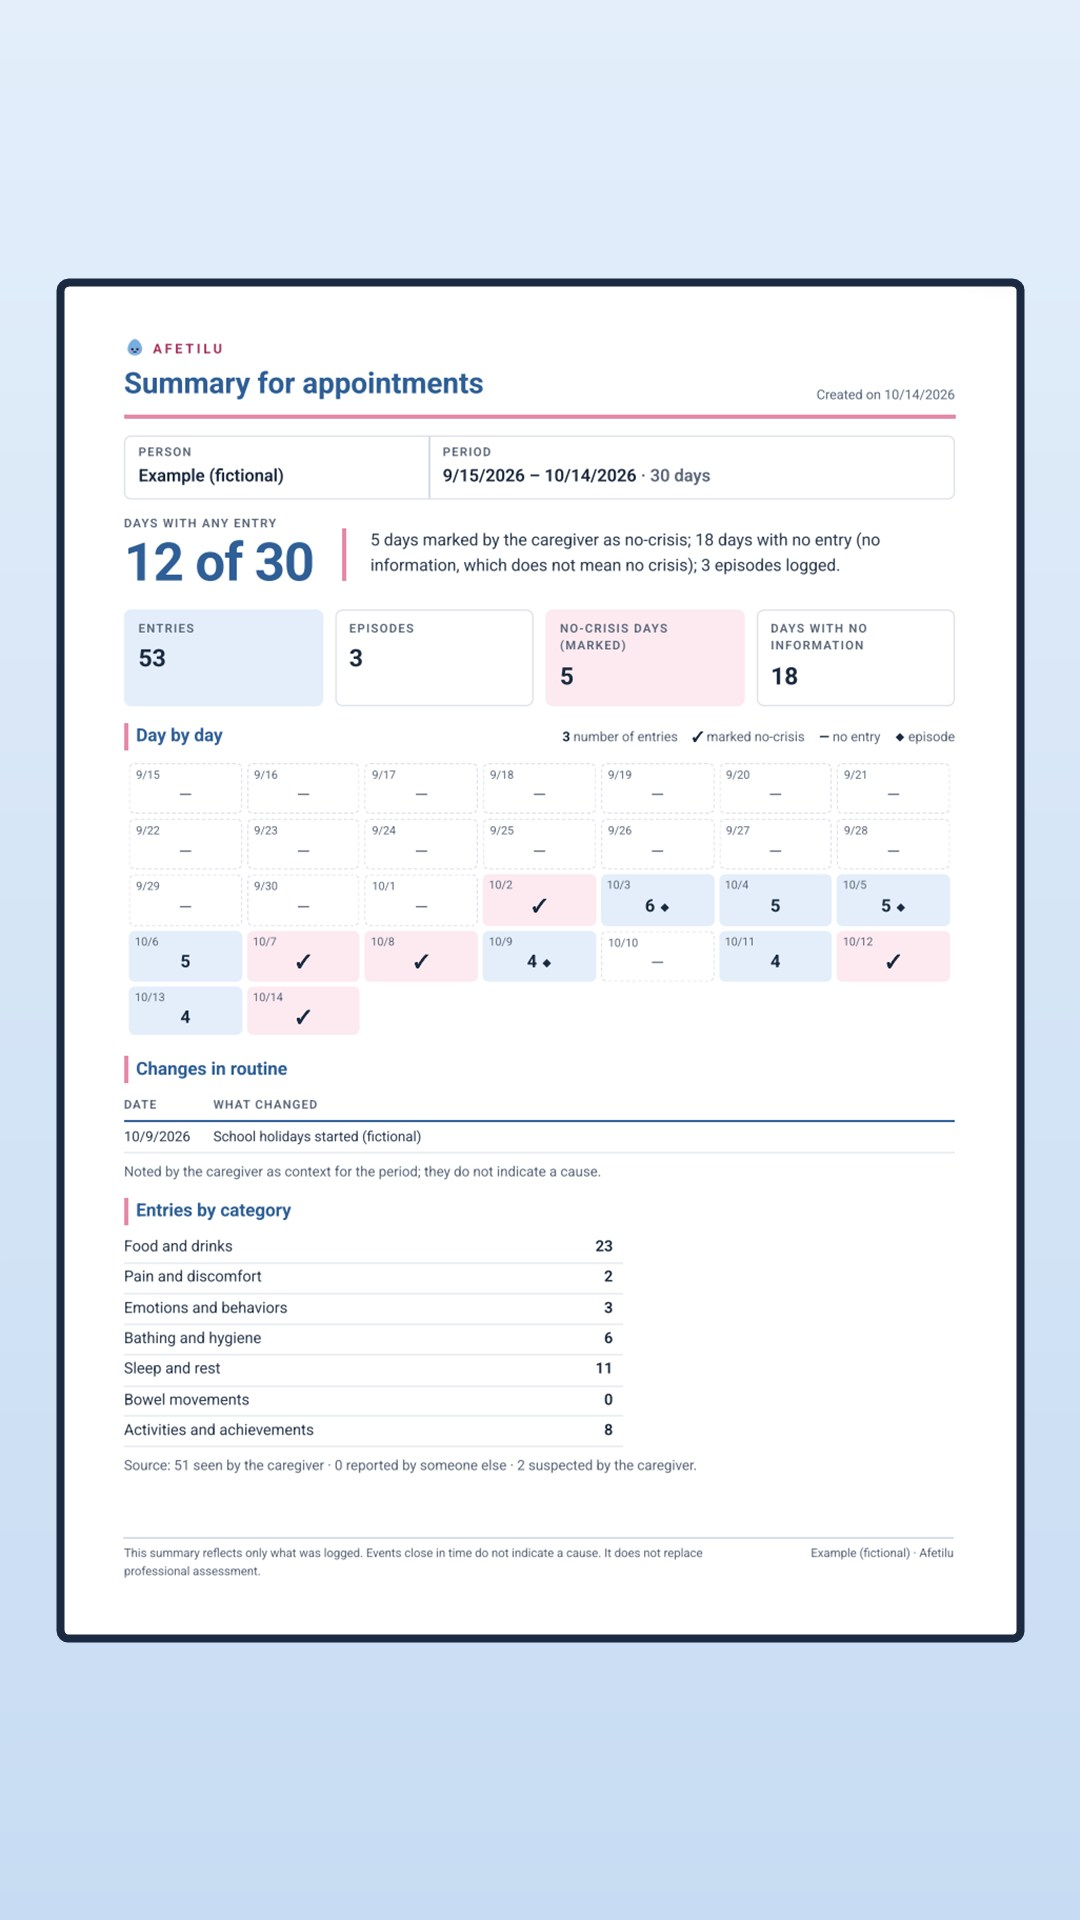
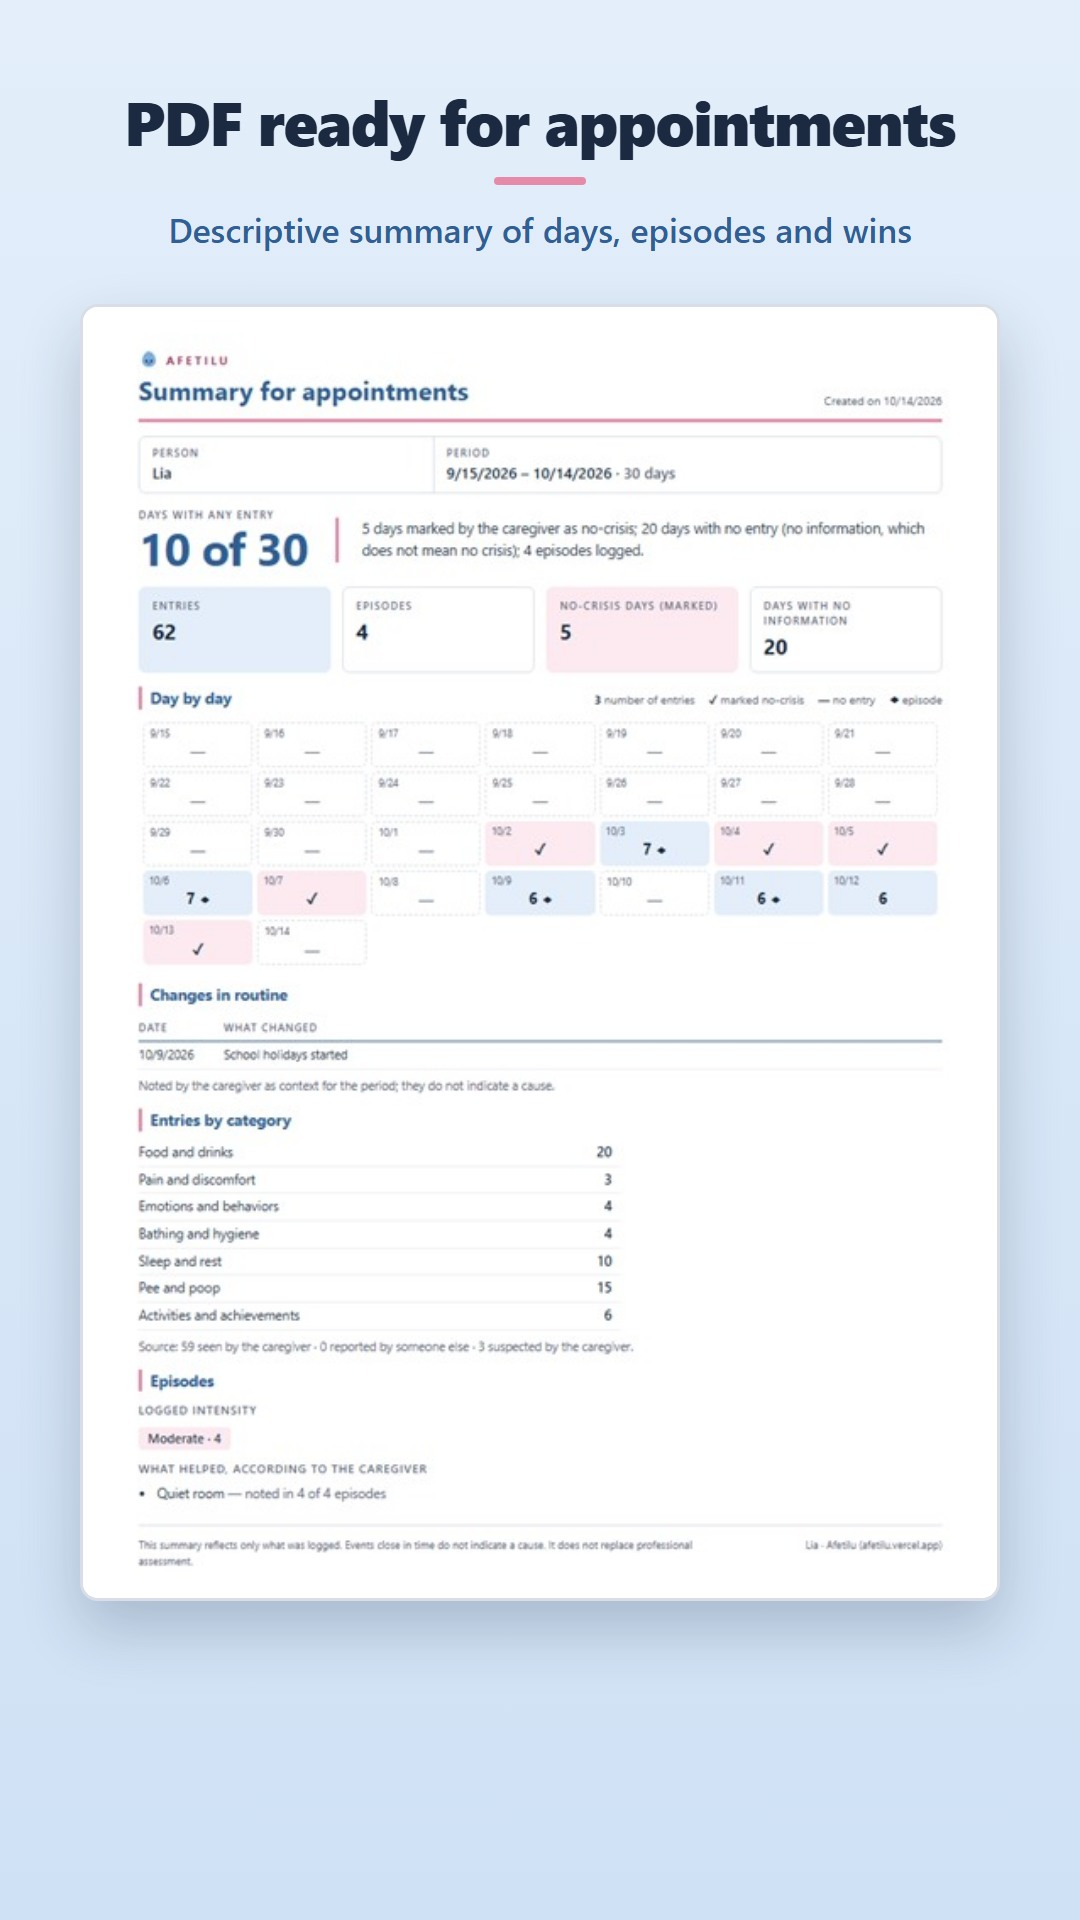
chore(lojas): ASO com autismo/TEA, captura emoldurada do PDF e gerador de capturas

diff --git a/ferramentas/loja/emoldurar_capturas.ts b/ferramentas/loja/emoldurar_capturas.ts
@@ -1,0 +1,162 @@
+// Emoldura capturas para as lojas (Google Play 1080×1920) com títulos curtos de benefício
+// acima da tela do app, colocando o resumo em PDF da Lia em destaque.
+//
+// Modo padrão (sem argumento): atualiza a captura do PDF em apps/mobile/store-assets/capturas/{idioma}/04-pdf.jpg
+// usando a primeira página limpa gerada em apps/site/publico/telas/pdf-{idioma}.jpg.
+//
+// Modo completo (com capturas cruas em ferramentas/loja/cruas/{pt-BR,en,es}/{inicio,linha,resumo}.png):
+//   pnpm exec tsx ferramentas/loja/emoldurar_capturas.ts --todas
+//   Gera as 4 capturas numeradas com o PDF em 1º lugar (01-pdf, 02-inicio, 03-linha-do-tempo, 04-resumo).
+
+import { execFileSync } from "node:child_process";
+import { existsSync, mkdirSync, mkdtempSync, readFileSync, rmSync, writeFileSync } from "node:fs";
+import { tmpdir } from "node:os";
+import { dirname, join, resolve } from "node:path";
+import { fileURLToPath, pathToFileURL } from "node:url";
+
+type Idioma = "pt-BR" | "en" | "es";
+type Slot = "pdf" | "inicio" | "linha" | "resumo";
+
+const AQUI = dirname(fileURLToPath(import.meta.url));
+const CAPTURAS = resolve(AQUI, "../../apps/mobile/store-assets/capturas");
+const SITE_TELAS = resolve(AQUI, "../../apps/site/publico/telas");
+const CRUAS = join(AQUI, "cruas");
+
+const LEGENDAS: Record<Idioma, Record<Slot, { titulo: string; subtitulo: string }>> = {
+  "pt-BR": {
+    pdf: { titulo: "PDF pronto para a consulta", subtitulo: "Resumo descritivo de dias, crises e conquistas" },
+    inicio: { titulo: "Anote o dia em poucos toques", subtitulo: "Alimentação, sono, dor, emoções e momentos positivos" },
+    linha: { titulo: "Linha do tempo honesta", subtitulo: "Sem registro nunca vira “sem crises” · Busca rápida" },
+    resumo: { titulo: "Período livre e suas perguntas", subtitulo: "Gratuito, sem conta e com dados só no aparelho" },
+  },
+  en: {
+    pdf: { titulo: "PDF ready for appointments", subtitulo: "Descriptive summary of days, episodes and wins" },
+    inicio: { titulo: "Log the day in a few taps", subtitulo: "Meals, sleep, pain, feelings and positive moments" },
+    linha: { titulo: "An honest timeline", subtitulo: "Missing days stay “no information” · Quick search" },
+    resumo: { titulo: "Custom dates & your questions", subtitulo: "Free, no account, and data stays on your device" },
+  },
+  es: {
+    pdf: { titulo: "PDF listo para la consulta", subtitulo: "Resumen descriptivo de días, crisis y logros" },
+    inicio: { titulo: "Anota el día en pocos toques", subtitulo: "Comidas, sueño, dolor, emociones y momentos positivos" },
+    linha: { titulo: "Línea de tiempo honesta", subtitulo: "Sin registro nunca es “sin crisis” · Búsqueda rápida" },
+    resumo: { titulo: "Período libre y tus preguntas", subtitulo: "Gratuita, sin cuenta y datos solo en tu dispositivo" },
+  },
+};
+
+function esc(v: string): string {
+  return v.replace(/&/g, "&amp;").replace(/</g, "&lt;").replace(/>/g, "&gt;").replace(/"/g, "&quot;");
+}
+
+function edge(): string {
+  const candidatos = [
+    join(process.env["ProgramFiles(x86)"] ?? "", "Microsoft/Edge/Application/msedge.exe"),
+    join(process.env.ProgramFiles ?? "", "Microsoft/Edge/Application/msedge.exe"),
+  ];
+  const achado = candidatos.find((c) => existsSync(c));
+  if (!achado) throw new Error("Microsoft Edge não encontrado.");
+  return achado;
+}
+
+function salvarJpg(origemPng: string, destinoJpg: string): void {
+  const script =
+    "Add-Type -AssemblyName System.Drawing; " +
+    `$o = [System.Drawing.Bitmap]::new('${origemPng}'); ` +
+    "$codec = [System.Drawing.Imaging.ImageCodecInfo]::GetImageEncoders() | Where-Object { $_.MimeType -eq 'image/jpeg' }; " +
+    "$enc = New-Object System.Drawing.Imaging.EncoderParameters(1); " +
+    "$enc.Param[0] = New-Object System.Drawing.Imaging.EncoderParameter([System.Drawing.Imaging.Encoder]::Quality, 92L); " +
+    `$o.Save('${destinoJpg}', $codec, $enc); $o.Dispose()`;
+  execFileSync("powershell", ["-NoProfile", "-Command", script], { stdio: "ignore" });
+}
+
+function htmlMoldura(o: { titulo: string; subtitulo: string; imagemDataUri: string; ehPdf: boolean }): string {
+  const moldura = o.ehPdf
+    ? `width: 920px; border-radius: 18px; border: 3px solid #D9DEE6; box-shadow: 0 28px 60px rgba(27,42,64,0.22);`
+    : `width: 760px; border-radius: 48px; border: 14px solid #1B2A40; box-shadow: 0 28px 60px rgba(27,42,64,0.24);`;
+  return `<!doctype html>
+<html>
+<head><meta charset="utf-8"><style>
+  * { box-sizing: border-box; margin: 0; padding: 0; }
+  body {
+    width: 1080px; height: 1920px; overflow: hidden;
+    background: linear-gradient(180deg, #E3EEFA 0%, #CFE1F5 100%);
+    font-family: "Segoe UI", Roboto, Helvetica, Arial, sans-serif;
+    display: flex; flex-direction: column; align-items: center;
+    padding: 86px 64px 56px;
+  }
+  .topo { text-align: center; margin-bottom: 52px; }
+  h1 { font-size: 62px; line-height: 1.12; font-weight: 800; color: #1B2A40; letter-spacing: -0.02em; }
+  .barra { width: 92px; height: 8px; border-radius: 4px; background: #E58AA8; margin: 22px auto; }
+  p { font-size: 34px; line-height: 1.3; font-weight: 600; color: #2F5F96; max-width: 920px; }
+  .quadro { flex: 1; display: flex; align-items: flex-start; justify-content: center; }
+  img { display: block; height: auto; background: #fff; ${moldura} }
+</style></head>
+<body>
+  <div class="topo">
+    <h1>${esc(o.titulo)}</h1>
+    <div class="barra"></div>
+    <p>${esc(o.subtitulo)}</p>
+  </div>
+  <div class="quadro"><img src="${o.imagemDataUri}" alt=""></div>
+</body>
+</html>`;
+}
+
+function dataUri(caminho: string): string {
+  const ext = caminho.toLowerCase().endsWith(".png") ? "image/png" : "image/jpeg";
+  return `data:${ext};base64,${readFileSync(caminho).toString("base64")}`;
+}
+
+const todas = process.argv.includes("--todas");
+const navegador = edge();
+const temp = mkdtempSync(join(tmpdir(), "afetilu-moldura-"));
+
+try {
+  for (const idioma of ["pt-BR", "en", "es"] as const) {
+    const destinoDir = join(CAPTURAS, idioma);
+    mkdirSync(destinoDir, { recursive: true });
+
+    const alvos: { slot: Slot; origem: string; saida: string }[] = [
+      {
+        slot: "pdf",
+        origem: join(SITE_TELAS, `pdf-${idioma}.jpg`),
+        saida: join(destinoDir, todas ? "01-pdf.jpg" : "04-pdf.jpg"),
+      },
+    ];
+    if (todas) {
+      for (const [slot, nome] of [
+        ["inicio", "02-inicio.jpg"],
+        ["linha", "03-linha-do-tempo.jpg"],
+        ["resumo", "04-resumo.jpg"],
+      ] as const) {
+        const png = join(CRUAS, idioma, `${slot}.png`);
+        const jpg = join(CRUAS, idioma, `${slot}.jpg`);
+        const origem = existsSync(png) ? png : existsSync(jpg) ? jpg : null;
+        if (origem) alvos.push({ slot, origem, saida: join(destinoDir, nome) });
+      }
+    }
+
+    for (const a of alvos) {
+      const html = join(temp, `${idioma}-${a.slot}.html`);
+      const png = join(temp, `${idioma}-${a.slot}.png`);
+      const leg = LEGENDAS[idioma][a.slot];
+      writeFileSync(html, htmlMoldura({ titulo: leg.titulo, subtitulo: leg.subtitulo, imagemDataUri: dataUri(a.origem), ehPdf: a.slot === "pdf" }));
+      execFileSync(
+        navegador,
+        [
+          "--headless=new",
+          "--disable-gpu",
+          "--hide-scrollbars",
+          `--user-data-dir=${join(temp, "perfil")}`,
+          "--window-size=1080,1920",
+          `--screenshot=${png}`,
+          pathToFileURL(html).href,
+        ],
+        { stdio: "ignore" },
+      );
+      salvarJpg(png, a.saida);
+      process.stdout.write(`${idioma}/${a.saida.split(/[\\/]/).pop()}\n`);
+    }
+  }
+} finally {
+  rmSync(temp, { recursive: true, force: true });
+}

diff --git a/apps/mobile/store-assets/ficha-es.md b/apps/mobile/store-assets/ficha-es.md
@@ -2,21 +2,21 @@
 
 ## Título (hasta 30)
 
-Afetilu: diario de cuidados
+Afetilu: Diario Autismo y TEA
 
 ## Descripción breve (hasta 80)
 
-Registra el día a día de quien cuidas y lleva un resumen a las consultas.
+Diario de rutina, sueño, crisis y logros en autismo (TEA). Genera PDF gratis.
 
 ## Descripción completa (hasta 4000)
 
-Afetilu es un diario para familiares y cuidadores de personas autistas. En pocos toques, anotas lo que observaste en el día a día y, a la hora de la consulta, llevas un resumen descriptivo a la terapeuta, la psicóloga o el médico que acompaña a la persona.
+Afetilu es un diario gratuito para familiares y cuidadores de personas autistas o en evaluación. En pocos toques, anotas lo que observaste en el día a día y, a la hora de la consulta, llevas un resumen descriptivo en PDF a la terapeuta, la psicóloga, la fonoaudióloga o el médico que acompaña a la persona.
 
 QUÉ PUEDES REGISTRAR
-• Comidas y bebidas
+• Comidas y bebidas (con atajos de alimentos recientes)
 • Sueño y siestas
 • Dolor y molestias percibidos
-• Emociones y comportamientos, incluidos episodios difíciles, con duración, intensidad y lo que ayudó
+• Emociones y comportamientos, incluidos episodios difíciles (crisis), con duración, intensidad y lo que ayudó
 • Baño e higiene
 • Pipí y popó
 • Actividades, logros y momentos positivos
@@ -25,14 +25,15 @@ QUÉ PUEDES REGISTRAR
 Cada registro guarda la hora en que ocurrió (exacta, aproximada o solo el momento del día) y el origen de la información: lo que viste, lo que alguien te contó o lo que sospechas.
 
 UNA LÍNEA DE TIEMPO HONESTA
-Un día sin registros aparece como “sin información”, nunca como “sin crisis”. Solo tú marcas un día sin crisis. Las correcciones quedan en el historial.
+Un día sin registros aparece como “sin información”, nunca como “sin crisis”. Solo tú marcas un día sin crisis. Las correcciones quedan en el historial y puedes buscar cualquier anotación.
 
-RESUMEN PARA LA CONSULTA
-Elige el período y las categorías y genera un PDF en el propio dispositivo, con el día a día, los episodios, los momentos positivos y las preguntas que quieres hacer. El resumen solo describe lo que se registró, sin interpretarlo.
+RESUMEN EN PDF PARA LA CONSULTA
+Elige el período (últimos 7, 30 o 90 días, o un rango personalizado) y las categorías y genera un PDF en el propio dispositivo, con el día a día, los episodios, los momentos positivos y las preguntas que quieres hacer. El resumen solo describe lo que se registró, sin interpretarlo.
 
 TUS DATOS SE QUEDAN CONTIGO
 • Sin cuenta, sin servidor y sin sincronización: todo queda en el dispositivo, en una base de datos cifrada.
 • Sin anuncios, sin analíticas y sin rastreo.
+• Bloqueo opcional por biometría o código del dispositivo y recordatorio nocturno silencioso (todo local).
 • Copia de seguridad solo cuando quieras, cifrada con tu propia contraseña.
 • Eliminar es de verdad: una persona o todo, en cualquier momento.
 

diff --git a/apps/mobile/store-assets/ficha-pt-BR.md b/apps/mobile/store-assets/ficha-pt-BR.md
@@ -2,21 +2,21 @@
 
 ## Título (até 30)
 
-Afetilu: diário de cuidados
+Afetilu: Diário Autismo e TEA
 
 ## Descrição curta (até 80)
 
-Registre o dia a dia de quem você cuida e leve um resumo às consultas.
+Diário de rotina, sono, crises e conquistas no autismo (TEA). Gera PDF grátis.
 
 ## Descrição completa (até 4000)
 
-O Afetilu é um diário para familiares e cuidadores de pessoas autistas. Em poucos toques, você anota o que observou no dia a dia e, na hora da consulta, leva um resumo descritivo para a terapeuta, a psicóloga ou o médico que acompanha a pessoa.
+O Afetilu é um diário gratuito para familiares e cuidadores de pessoas autistas ou em investigação. Em poucos toques, você anota o que observou no dia a dia e, na hora da consulta, leva um resumo descritivo em PDF para a terapeuta, a psicóloga, a fonoaudióloga ou o médico que acompanha a pessoa.
 
 O QUE DÁ PARA REGISTRAR
-• Alimentação e bebidas
+• Alimentação e bebidas (com atalhos dos alimentos recentes)
 • Sono e cochilos
 • Dor e desconforto percebidos
-• Emoções e comportamentos, incluindo episódios difíceis, com duração, intensidade e o que ajudou
+• Emoções e comportamentos, incluindo episódios difíceis (crises), com duração, intensidade e o que ajudou
 • Banho e higiene
 • Xixi e cocô
 • Atividades, conquistas e momentos positivos
@@ -25,14 +25,15 @@ O QUE DÁ PARA REGISTRAR
 Cada registro guarda o horário do acontecimento (exato, aproximado ou só o período do dia) e a origem da informação: o que você viu, o que alguém contou ou o que é uma suspeita sua.
 
 LINHA DO TEMPO HONESTA
-Um dia sem registro aparece como “sem informação”, nunca como “sem crises”. Só você marca um dia sem crises. Correções ficam no histórico.
+Um dia sem registro aparece como “sem informação”, nunca como “sem crises”. Só você marca um dia sem crises. Correções ficam no histórico, e você pode buscar qualquer anotação.
 
-RESUMO PARA A CONSULTA
-Escolha o período e as categorias e gere um PDF no próprio aparelho, com o dia a dia, os episódios, os momentos positivos e as perguntas que você quer fazer. O resumo só descreve o que foi registrado, sem interpretar.
+RESUMO EM PDF PARA A CONSULTA
+Escolha o período (últimos 7, 30 ou 90 dias, ou um intervalo personalizado) e as categorias e gere um PDF no próprio aparelho, com o dia a dia, os episódios, os momentos positivos e as perguntas que você quer fazer. O resumo só descreve o que foi registrado, sem interpretar.
 
 SEUS DADOS FICAM COM VOCÊ
 • Sem conta, sem servidor e sem sincronização: tudo fica no aparelho, em banco de dados cifrado.
 • Sem anúncios, sem analytics e sem rastreamento.
+• Bloqueio opcional por biometria ou código do aparelho e lembrete noturno silencioso (tudo local).
 • Backup só quando você quiser, cifrado com uma senha sua.
 • Apagar é de verdade: uma pessoa ou tudo, a qualquer momento.
 

diff --git a/apps/mobile/store-assets/ficha-en.md b/apps/mobile/store-assets/ficha-en.md
@@ -2,18 +2,18 @@
 
 ## Title (up to 30)
 
-Afetilu: caregiver journal
+Afetilu: Autism & ASD Journal
 
 ## Short description (up to 80)
 
-Log day-to-day life of the person you care for and bring a summary to visits.
+Autism (ASD) routine, sleep, meltdowns & wins journal. Free PDF for visits.
 
 ## Full description (up to 4000)
 
-Afetilu is a journal for family members and caregivers of autistic people. In a few taps, you note what you observed day to day and, when it is time for the appointment, bring a descriptive summary to the therapist, psychologist or doctor who supports the person.
+Afetilu is a free journal for family members and caregivers of autistic people or people being assessed. In a few taps, you note what you observed day to day and, when it is time for the appointment, bring a descriptive PDF summary to the therapist, psychologist, speech therapist or doctor who supports the person.
 
 WHAT YOU CAN LOG
-• Meals and drinks
+• Meals and drinks (with quick shortcuts for recent foods)
 • Sleep and naps
 • Perceived pain and discomfort
 • Feelings and behavior, including difficult episodes, with duration, intensity and what helped
@@ -25,14 +25,15 @@ WHAT YOU CAN LOG
 Each log keeps the time it happened (exact, approximate or just the time of day) and the source of the information: what you saw, what someone told you or what you suspect.
 
 AN HONEST TIMELINE
-A day with no logs shows as “no information”, never as “no crises”. Only you mark a day as crisis-free. Corrections are kept in the history.
+A day with no logs shows as “no information”, never as “no crises”. Only you mark a day as crisis-free. Corrections are kept in the history, and you can search your notes anytime.
 
-SUMMARY FOR APPOINTMENTS
-Choose the period and categories and create a PDF on the device itself, with the day-by-day view, episodes, positive moments and the questions you want to ask. The summary only describes what was logged, without interpreting it.
+PDF SUMMARY FOR APPOINTMENTS
+Choose the period (last 7, 30 or 90 days, or a custom date range) and categories and create a PDF on the device itself, with the day-by-day view, episodes, positive moments and the questions you want to ask. The summary only describes what was logged, without interpreting it.
 
 YOUR DATA STAYS WITH YOU
 • No account, no server and no sync: everything stays on the device, in an encrypted database.
 • No ads, no analytics and no tracking.
+• Optional biometric/passcode app lock and silent local evening reminder (all on device).
 • Backups only when you want them, encrypted with your own password.
 • Deleting is for real: one person or everything, at any time.
 

diff --git a/apps/mobile/store-assets/ficha-ios.md b/apps/mobile/store-assets/ficha-ios.md
@@ -6,40 +6,40 @@ A descrição (até 4000) é a mesma da Google Play: `ficha-pt-BR.md`, `ficha-en
 
 ### Subtítulo (até 30)
 
-Registros para as consultas
+Rotina, crises e PDF consulta
 
 ### Texto promocional (até 170)
 
-Anote o dia a dia de quem você cuida em poucos toques e leve um resumo descritivo às consultas. Sem conta e sem anúncios: os dados ficam só no seu aparelho.
+Anote a rotina, sono, crises e conquistas de quem você cuida e leve um PDF pronto às consultas. Gratuito, sem conta e sem anúncios: dados só no aparelho.
 
 ### Palavras-chave (até 100)
 
-autismo,TEA,cuidador,família,sono,alimentação,comportamento,rotina,terapia,relatório,neurodivergente
+autista,cuidador,família,sono,alimentação,comportamento,terapia,relatório,neurodivergente,pais
 
 ## English (U.S.)
 
 ### Subtitle (up to 30)
 
-Notes for appointments
+Daily routine & visit PDF
 
 ### Promotional text (up to 170)
 
-Log day-to-day life of the person you care for in a few taps and bring a descriptive summary to appointments. No account, no ads: your data stays on your device.
+Log daily routine, sleep, difficult episodes and wins in a few taps and bring a descriptive PDF to appointments. Free, no account, no ads: data stays on your device.
 
 ### Keywords (up to 100)
 
-autism,ASD,caregiver,family,sleep,meals,behavior,routine,therapy,report,PDF,neurodivergent,log
+autistic,caregiver,family,sleep,meals,behavior,therapy,report,neurodivergent,meltdown,log,parents
 
 ## Español (México)
 
 ### Subtítulo (hasta 30)
 
-Registros para las consultas
+Rutina, crisis y PDF consulta
 
 ### Texto promocional (hasta 170)
 
-Anota el día a día de quien cuidas en pocos toques y lleva un resumen descriptivo a las consultas. Sin cuenta ni anuncios: los datos quedan solo en tu dispositivo.
+Anota la rutina, sueño, crisis y logros de quien cuidas y lleva un PDF descriptivo a las consultas. Gratis, sin cuenta y sin anuncios: datos solo en tu dispositivo.
 
 ### Palabras clave (hasta 100)
 
-autismo,TEA,cuidador,familia,sueño,comida,conducta,rutina,terapia,informe,PDF,neurodivergente
+autista,cuidador,familia,sueño,comida,conducta,terapia,informe,neurodivergente,padres,logros

diff --git a/apps/mobile/store-assets/README.md b/apps/mobile/store-assets/README.md
@@ -9,6 +9,6 @@ Tudo aqui é público e vai para as fichas. Nada de dado real: as capturas usam 
 | `ficha-pt-BR.md`, `ficha-en.md`, `ficha-es.md` | Escritos à mão | Título até 30, descrição curta até 80 e completa até 4000 caracteres. Linguagem de diário e resumo; sem promessa de resultado, diagnóstico ou tratamento; aviso de que não é serviço médico nem de emergência (SAMU 192 só em pt-BR). |
 | `icone-512.png` | `ferramentas/icone/gerar_icone.mjs` | Ícone da Google Play, 512 × 512, sem canal alfa. Não editar à mão. |
 | `destaque-1024x500.png` | `ferramentas/icone/gerar_icone.mjs` | Imagem de destaque da Google Play, sem texto traduzível (serve aos três idiomas). |
-| `capturas/<idioma>/` | Capturas do app no Galaxy A52s, sem as barras do sistema, centralizadas sobre o fundo da marca | 1080 × 1920 (9:16, como o Play Console pede); a do PDF é a primeira página do resumo. Refazer quando a tela mudar. |
+| `capturas/<idioma>/` | Capturas 1080 × 1920 (9:16) emolduradas por `ferramentas/loja/emoldurar_capturas.ts` com título de benefício; o PDF vem da Lia (gerado por `ferramentas/site/gerar_ativos.ts`). Com capturas cruas novas em `ferramentas/loja/cruas/<idioma>/{inicio,linha,resumo}.png`, rode `--todas` para colocar o PDF em 1º lugar. |
 
 Público-alvo: adultos (familiares e cuidadores). O mascote aparece discreto nas capturas, para a ficha não ser lida como app infantil.
